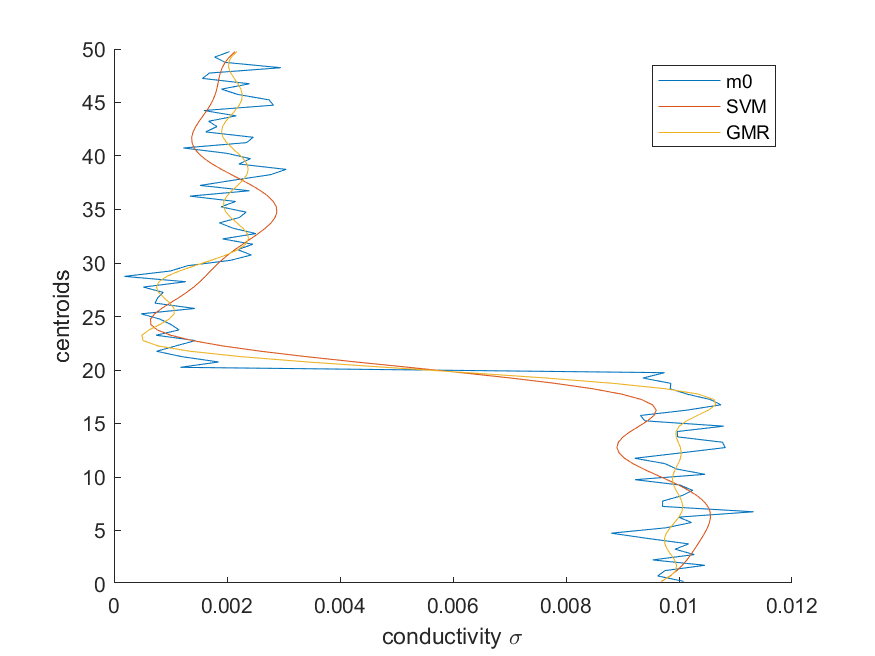
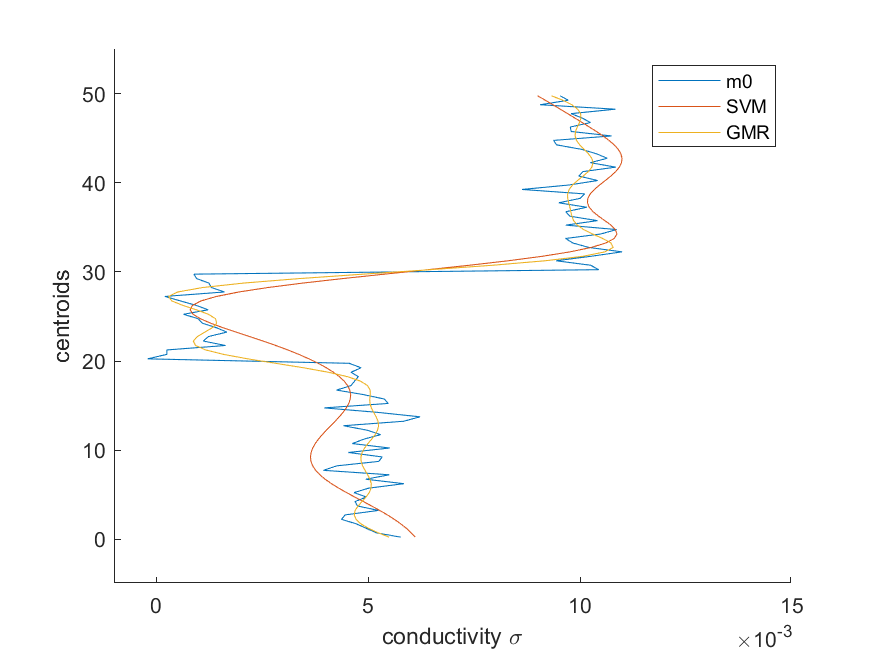
homemade inversion

diff --git a/matlab_models/EM_forward_model_anhorn.m b/matlab_models/EM_forward_model_anhorn.m
@@ -9,7 +9,7 @@ depth = 30; % depth
 resmap = ones(30, 50);
 sig1 = 1e-2;
 sig2 = 1e-3;
-sig3 = 2e-3;
+sig3 = 5e-3;
 resmap(1:end,1:end) = sig1;
 resmap(10:20,1:end) = sig2;
 resmap(20:end,1:end) = sig3;
@@ -72,8 +72,8 @@ x = resEM';
 y = centroid;
 
 for i = 1:length(x)
-    x(i) = x(i) + randn(1)*1e-5  ; % no noise
-end
+    x(i) = x(i) + randn(1)*5e-4 ;
+end % noise
 
 % hold on
 % plot(x, centroid, 'x')
@@ -81,31 +81,32 @@ end
 % hold off
 
 % setting up inversion functions
-k = 0:1:4;
+k = 0:1:10;
 G = zeros(length(y), length(k));
 G(:, :) = y(:).^repmat(k, length(y), 1);
-beta = (G'*G).\1*(G'*x);
+beta = inv(G'*G)*(G'*x);
+
 y1=zeros(length(y), 1);
 
 % polynomial regression
 for i = 1:length(k)
    y1(:) = y1(:) + beta(i)*y(:).^k(i);
-end
+end 
 
 % adding error
-er = y1;
-for i = 1:length(er)
-    er(i) = er(i) + randn(1)*1e-4  ; % noise
-end
-y1 = y1 - er;
+% er = y1;
+% for i = 1:length(er)
+%     er(i) = er(i) + randn(1)*1e-4  ; % noise
+% end
 
 % plot
 inversion = figure(3);
 hold on
-plot(x, y, 'x')
+plot(x, y)
 plot(y1, y, 'r')
-xlim([-0.005 0.012])
+xlim([-0.001 0.015])
 ylim([-5 55])
+legend('m0', 'homemade inversion', 'location', 'northwest')
 hold off
 saveas(inversion, 'inversion_fig.png')
 
@@ -114,7 +115,7 @@ saveas(inversion, 'inversion_fig.png')
 % /////////////////////////////////
 
 x = centroid';
-y = sig1*(x<20) + sig2*(x>=20 & x < 30) + sig3*(x >= 30);
+y = sig3*(x<20) + sig2*(x>=20 & x < 30) + sig1*(x >= 30);
 
 for i = 1:length(y)
     y(i) = y(i) + randn(1)*5e-4  ; % noise
@@ -135,6 +136,8 @@ hold on
 plot(y, x)
 plot(yfit_SVM, x)
 plot(yfit_GMR, x)
+xlim([-0.001 0.015])
+ylim([-5 55])
 legend('m0','SVM', 'GMR')
 xlabel('conductivity \sigma')
 ylabel('centroids')
